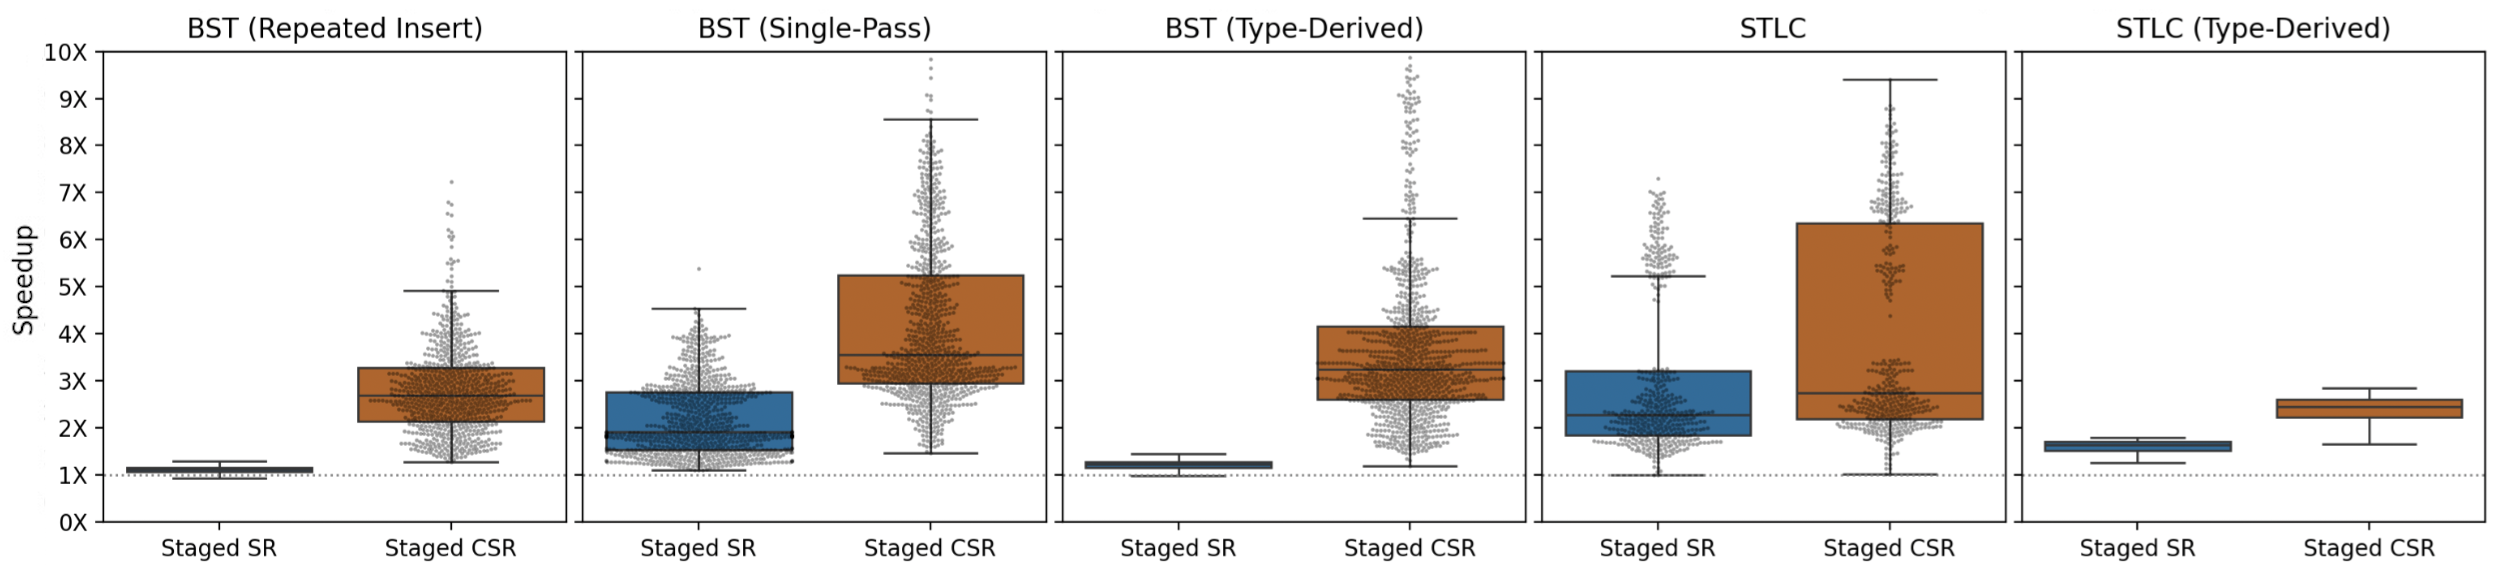
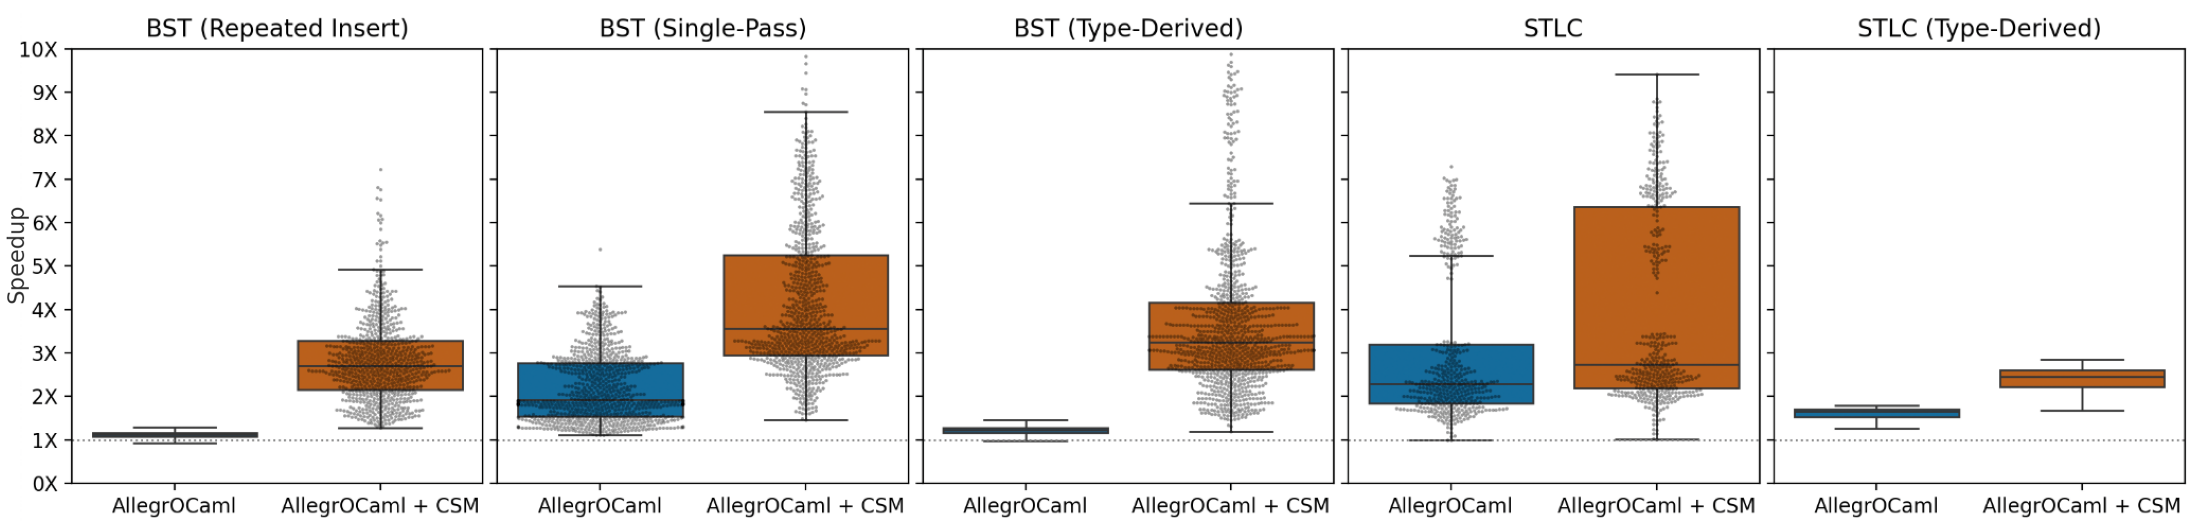
newfigs

diff --git a/paper/paper.tex b/paper/paper.tex
@@ -1461,8 +1461,8 @@ We run each treatment for 5 seconds and compute the average generation time of a
 
 \begin{figure}[h]
   % \includegraphics[scale=0.33]{allocs.png}
-  \includegraphics[scale=0.43]{time.png}
-  \caption{Time to generate values of varying sizes using each \camlname strategy. Lower is better. Both axes are logarithmic. BQ is \bq; Staged SR is \camlname using \bq's \texttt{splittable\_random} RNG; Staged CSR is \camlname using \csplitmix.}
+  \includegraphics[scale=0.57]{time.png}
+  \caption{Time to generate values of varying sizes using each \camlname strategy. Lower is better. Both axes are logarithmic. BQ is \bq.}
   \label{fig:time}
 \end{figure}
 
@@ -1510,9 +1510,9 @@ record the average number of \texttt{bind} calls. To determine the number of ran
 We then count the number of invocations of \texttt{next\_int64} and average this over the number of generator calls in the trace.
 
 \begin{figure}[h]
-  \includegraphics[scale=0.28]{bind.png}
-  \caption{Left: Speedup from staging (compared to baseline \bq) versus the number of \texttt{bind} calls.
-  Right: Speedup from \csplitmix (compared to staging alone) versus the number of random samples.}
+  \includegraphics[scale=0.43]{bind.png}
+  \caption{Left: Speedup from staging (compared to \bq) versus the number of \texttt{bind} calls.
+  Right: Speedup from \csplitmix (compared to \camlname alone) versus the number of random samples.}
   \label{fig:binds}
 \end{figure}
 
@@ -1552,7 +1552,7 @@ overhead. These results show that the \name approach generalizes well across lan
 
 \begin{figure}[h]
   \centering
-  \includegraphics[scale=0.41]{scala.png}
+  \includegraphics[scale=0.25]{scala.png}
  \caption{Time to generate values of varying sizes using each \scalaname strategy. Lower is better. Both axes are logarithmic. SC is ScalaCheck; Staged is \scalaname.}
  \label{fig:scala}
  \end{figure}
@@ -1613,8 +1613,8 @@ tasks. By applying these filters, we ensure that our reported speedups reflect
 optimizations that meaningfully impact performance.
 
 \begin{figure}[h]
-  \includegraphics[scale=0.3]{speedup.png}
-  \caption{Geometric average of all speedups---relative to \bq---for each strategy and benchmark, showing that staging leads to better bug-finding speed across the board.
+  \includegraphics[scale=0.33]{speedup.png}
+  \caption{Geometric average of all speedups---relative to \bq---for each strategy and benchmark, showing that staging leads to better bug-finding speed across the board. CSM is \csplitmix.
   }
   \label{fig:etna}
 \end{figure}
@@ -1632,8 +1632,8 @@ Overall,
 these results give strong evidence that \camlname consistently benefits bug-finding speed, sometimes drastically.
 
 \begin{figure}[h]
-  \includegraphics[scale=0.31]{swarm.png}
-  \caption{Distribution of individual-task speedups across strategies and benchmarks. Gray dots represent tasks. Plots with extremely low variance have no swarm overlay.}
+  \includegraphics[scale=0.49]{swarm.png}
+  \caption{Distribution of individual-task speedups across strategies and benchmarks. Gray dots represent tasks. Plots with extremely low variance have no swarm overlay. CSM is \csplitmix.}
   \label{fig:swarm}
 \end{figure}
 
